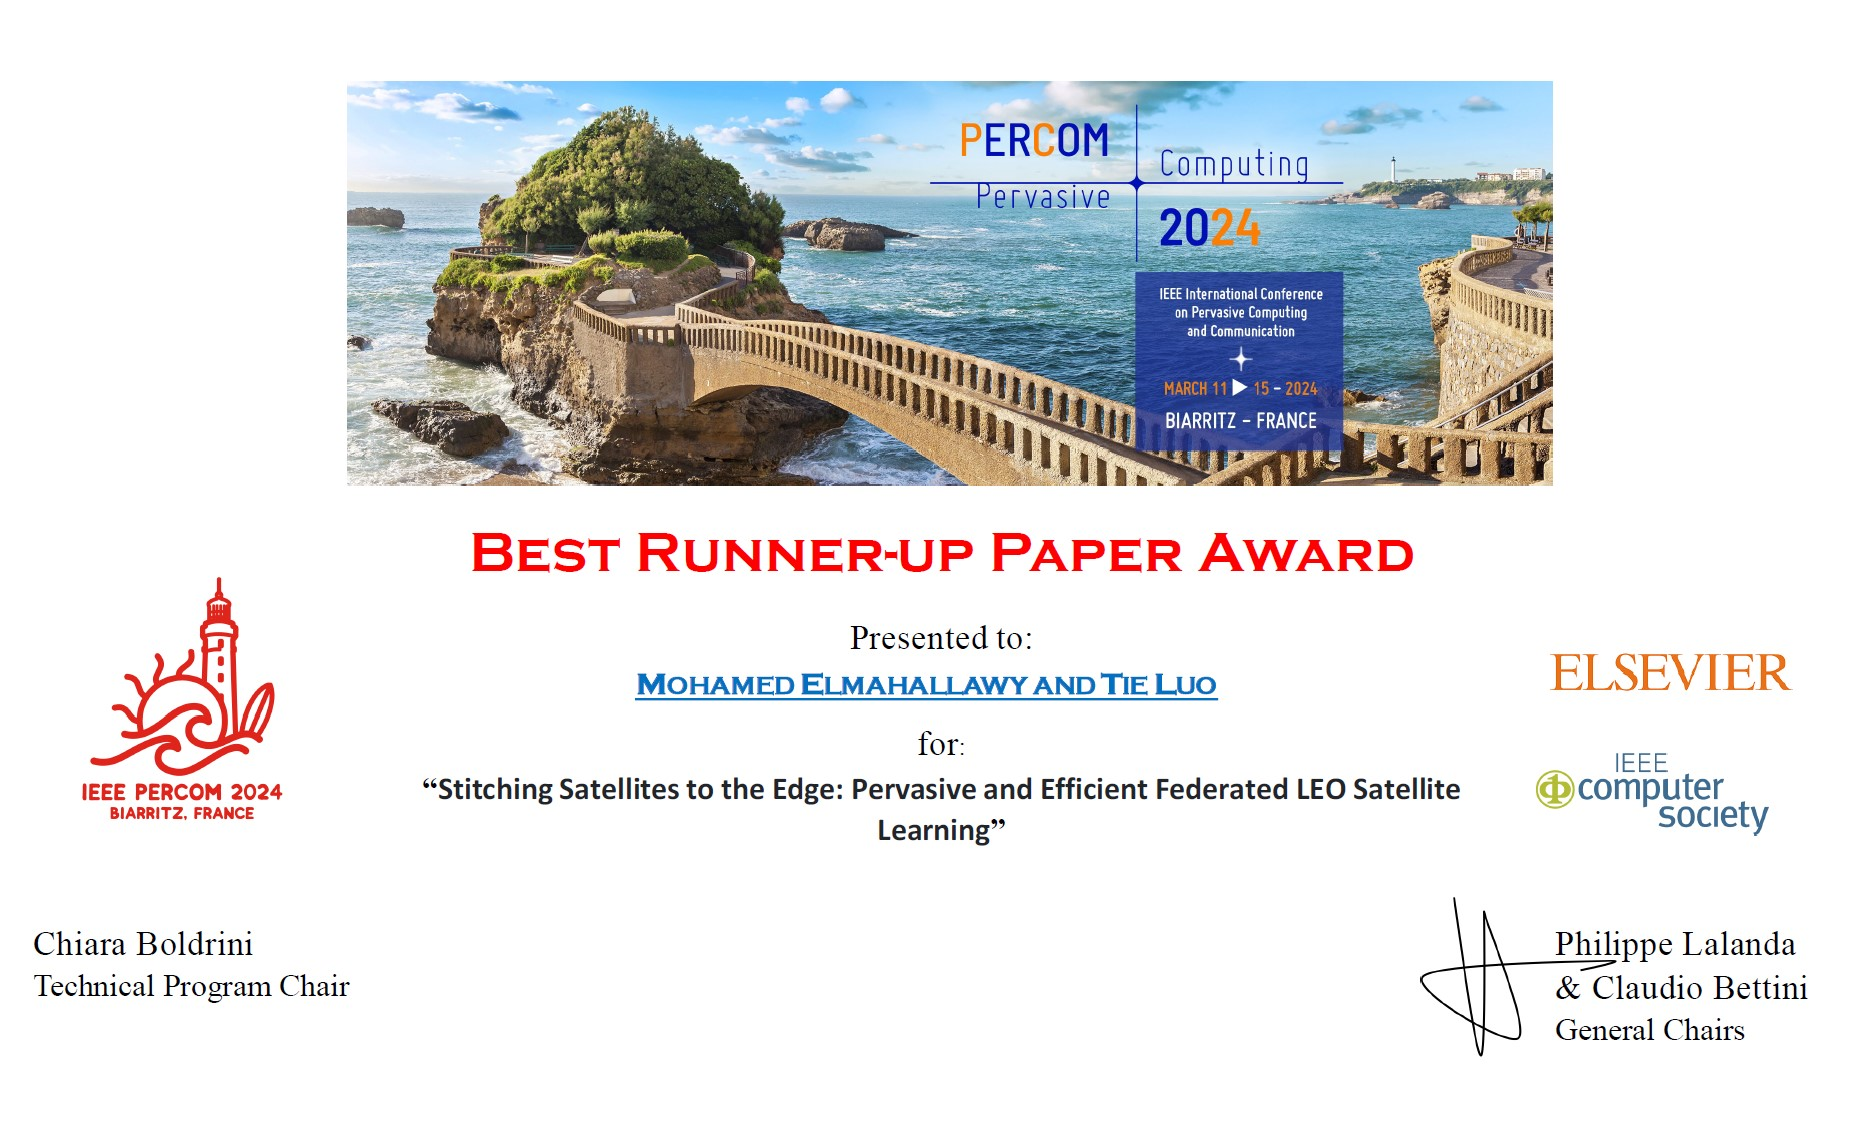
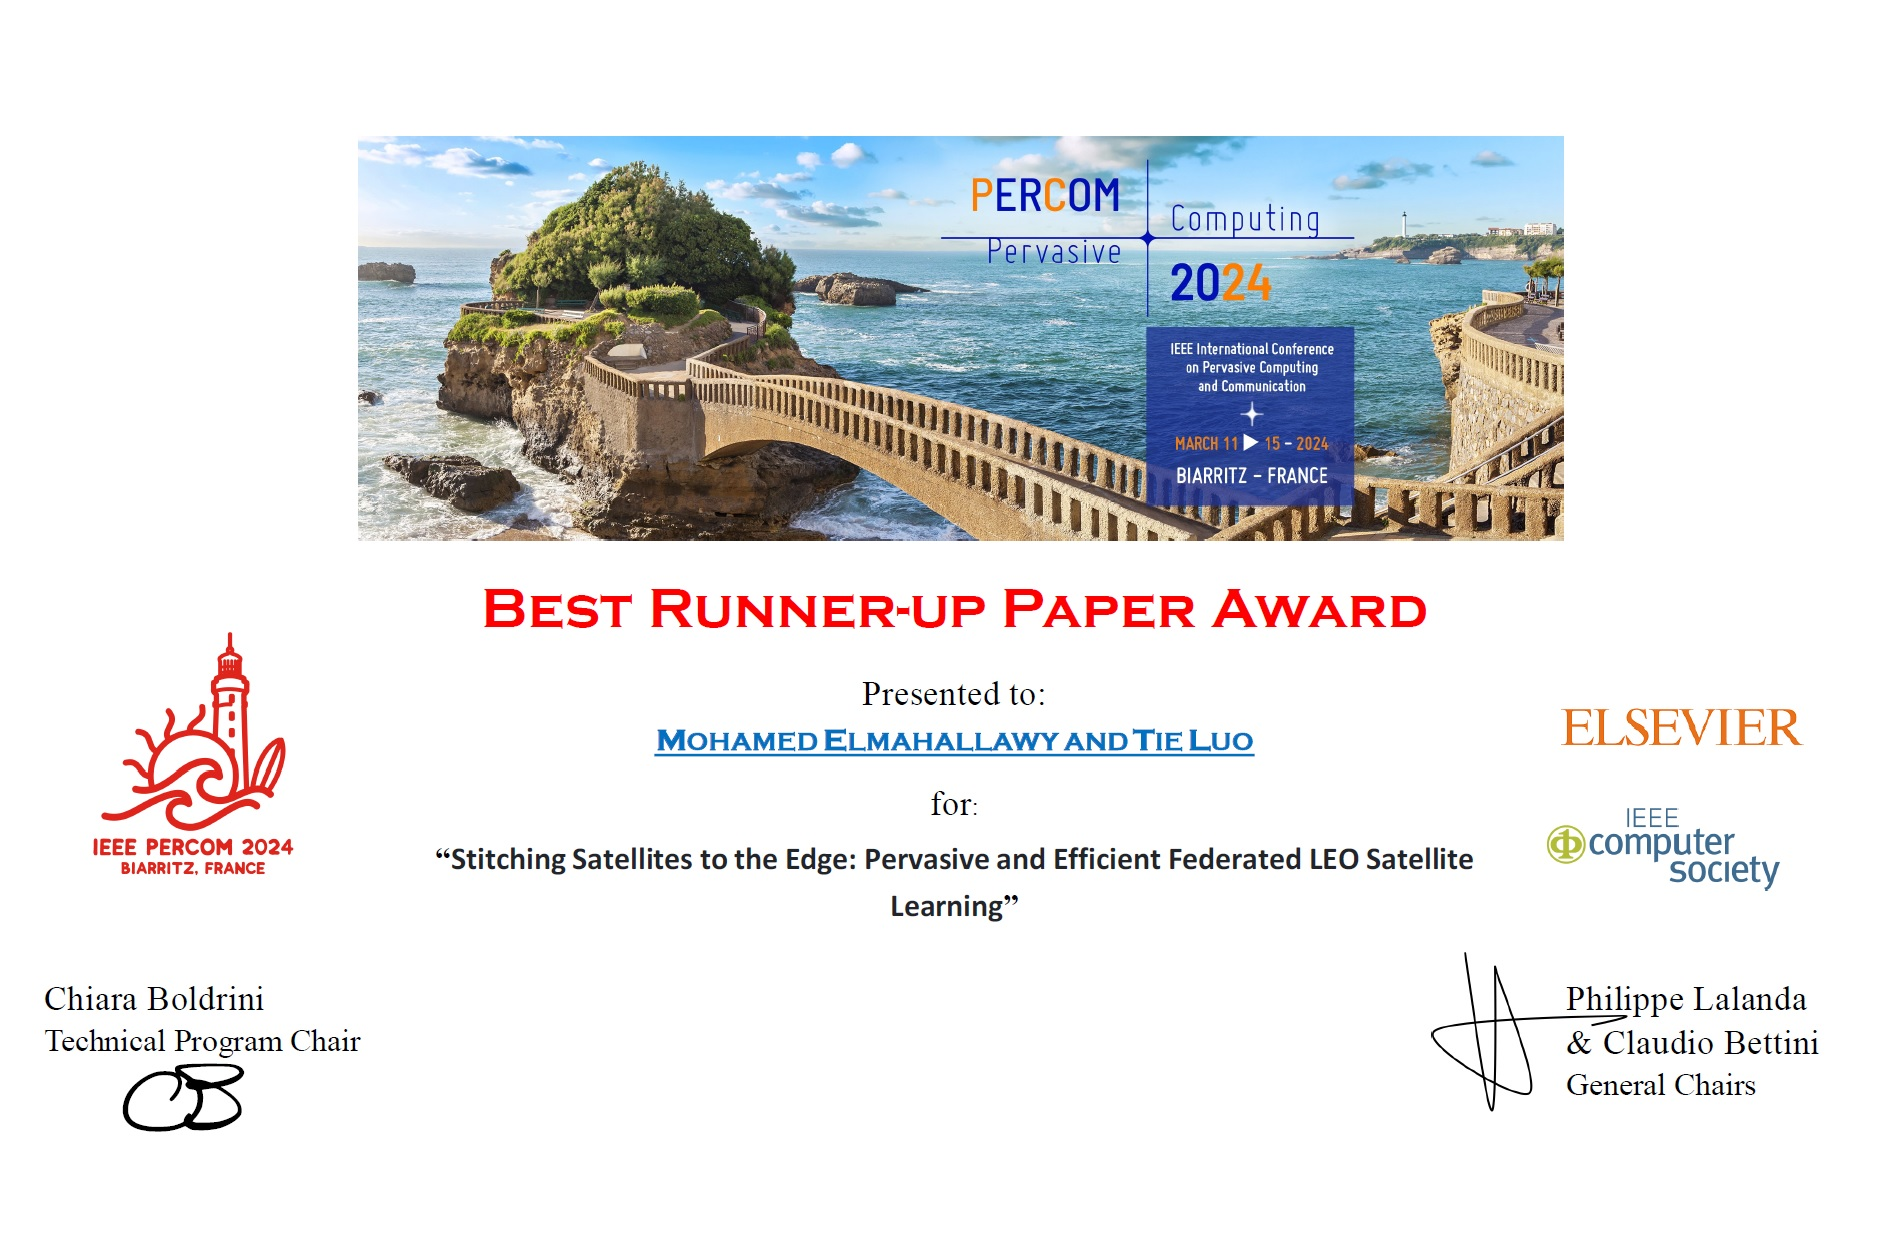
replaced PerCom award picture (with signature)

diff --git a/publications.html b/publications.html
@@ -712,7 +712,7 @@ body { font-family: "Segoe UI", Optima, Geneva, Futura, "Gill Sans", "Times New 
   		Tie Luo, Vikram Srinivasan, and Mehul Motani<br>
   		<i>Technical Report</i>, NUS, March 2007.</li-->
 
-	<li class="R"><b><font color="red">[NEW]</font></b> <a class="one" href="https://arxiv.org/abs/2304.10018">Digital Twin Graph: Automated Domain-Agnostic Construction, Fusion, and Simulation of IoT-Enabled World</a><br>
+	<li class="R"><a class="one" href="https://arxiv.org/abs/2304.10018">Digital Twin Graph: Automated Domain-Agnostic Construction, Fusion, and Simulation of IoT-Enabled World</a><br>
 		J. Du and <b>T. Luo</b><br>
 		<i>arXiv preprint 2304.10018</i>, Apr 2023.</li><p>
 
